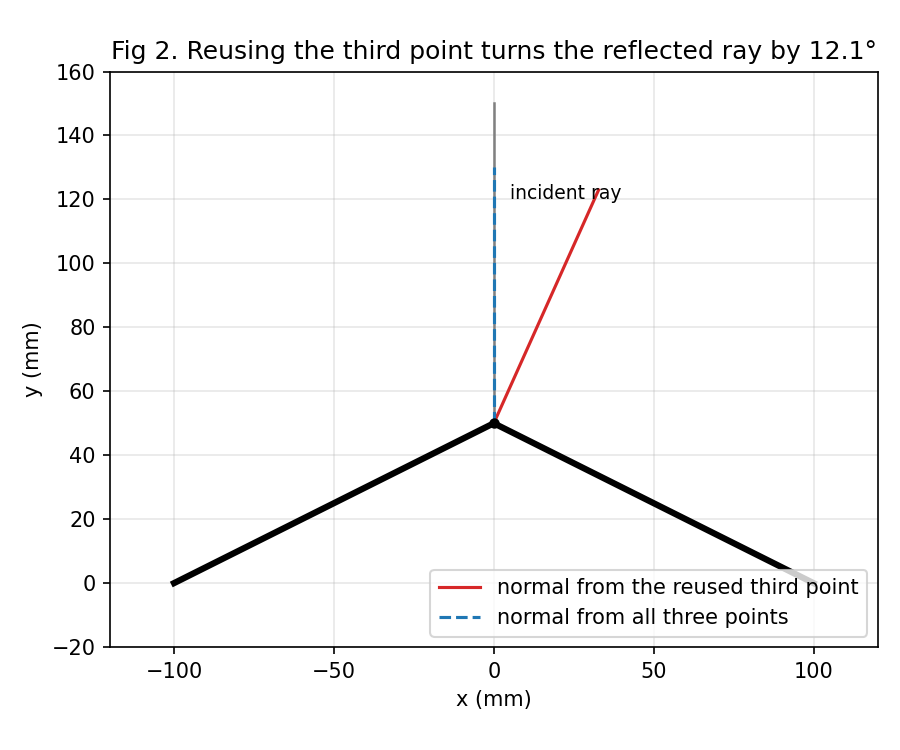
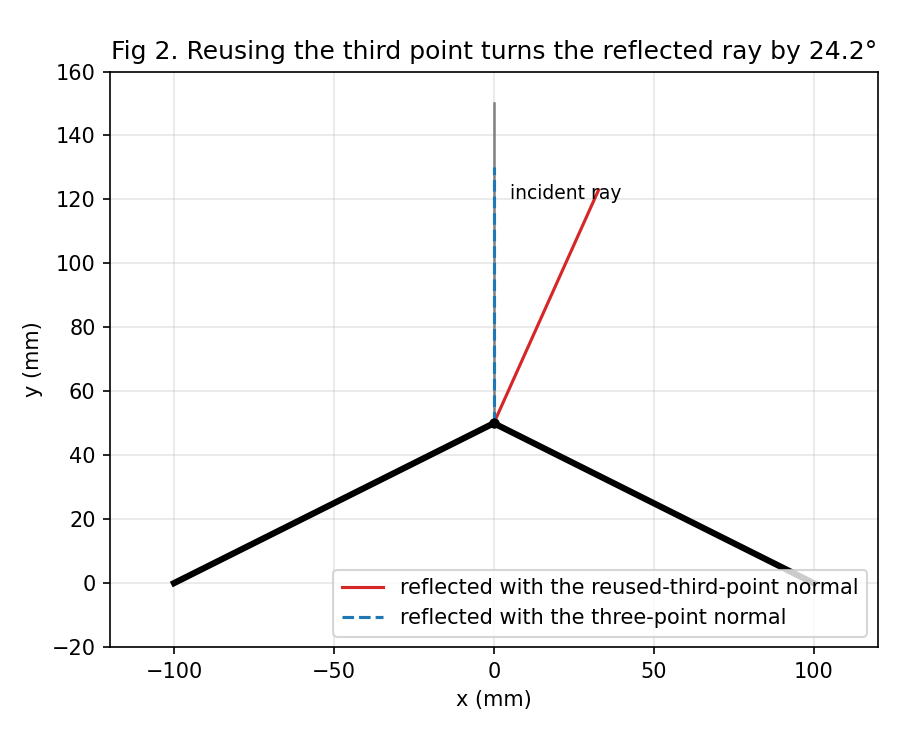
fix(post): raytracing-reflection-family — 그림2 반사 방향 차이 24.2°, 범례·꼭짓점 오차 서술·법선 방향 정정
1. 반사 방향 차이 12.1° → 24.2°(치명): 12.095°는 두 법선 사이 각이었다. 법선이 δ 돌면 반사광은
   2δ 돈다(Hecht 5판 §5.4). 반사광 사이 각 24.190°, 하우스홀더 곱도 24.19° 회전. 그림2 제목을
   반사광 사이 각으로 바꿨다.
2. 그림2 범례: 그려진 선은 법선이 아니라 반사광이다. "…법선으로 반사"로.
3. "비대칭할수록 오차가 커진다": dup_point의 원 중심은 원점을 지나는 직선에 묶여 순서가 좌표
   배치에 달려 있다. 꼭짓점을 y로 500 mm 옮기면 17.5°→13.6°→9.1°로 뒤집힌다. 본문과
   verify_vertex_normal.py docstring을 고쳤다(스크립트 출력은 그대로).
4. 꼭짓점 법선 방향: 코드는 꼭짓점에서 중심 쪽이다. "반지름 방향"으로 고쳤다.

바뀐 그림: fig2-vertex-normal-typo.png 한·영.

Changed region(s): [[0.4356, 0.7667, 0.9644, 0.8587], [0.9022, 0.0307, 0.9644, 0.092], [0.3733, 0.7667, 0.4044, 0.7973]]

diff --git a/_code/raytracing-reflection-family/generate_figures.py b/_code/raytracing-reflection-family/generate_figures.py
@@ -45,10 +45,10 @@ LABELS = {
         "reflected": "반사", "transmitted": "투과",
         "fig1": "그림1. 네 반사 부품의 광선 경로 -- 반사 공식은 하나, 법선 찾는 법만 다르다",
         "incident": "입사광",
-        "n_dup": "세 번째 점을 재사용한 법선",
-        "n_uniq": "세 점을 모두 쓴 법선",
+        "n_dup": "세 번째 점을 재사용한 법선으로 반사",
+        "n_uniq": "세 점을 모두 쓴 법선으로 반사",
         "fig2": "그림2. 세 번째 점을 재사용하면 반사 방향이 {:.1f}° 달라진다",
-        "p_vertex": "대칭 꼭짓점: n_dup={}, n_uniq={}, 차이={:.3f}deg",
+        "p_vertex": "대칭 꼭짓점: n_dup={}, n_uniq={}, 법선 차이={:.3f}deg, 반사광 차이={:.3f}deg",
     },
     "en": {
         "dir": os.path.join(BASE_DIR, "en"),
@@ -57,10 +57,10 @@ LABELS = {
         "reflected": "reflected", "transmitted": "transmitted",
         "fig1": "Fig 1. Ray paths for the four reflective components -- one formula, four ways to find the normal",
         "incident": "incident ray",
-        "n_dup": "normal from the reused third point",
-        "n_uniq": "normal from all three points",
+        "n_dup": "reflected with the reused-third-point normal",
+        "n_uniq": "reflected with the three-point normal",
         "fig2": "Fig 2. Reusing the third point turns the reflected ray by {:.1f}°",
-        "p_vertex": "symmetric vertex: n_dup={}, n_uniq={}, diff={:.3f}deg",
+        "p_vertex": "symmetric vertex: n_dup={}, n_uniq={}, normal diff={:.3f}deg, reflected diff={:.3f}deg",
     },
 }
 
@@ -102,6 +102,8 @@ n_uniq = _vertex_normal(vx0, vy0, vx1, vy1_, vx2, vy2, vx1, vy1_, dup_point=Fals
 vertex_ang = np.rad2deg(np.arccos(np.clip(np.dot(n_dup, n_uniq), -1, 1)))
 v_dup = reflect_vector([0.0, -1.0], n_dup)
 v_uniq = reflect_vector([0.0, -1.0], n_uniq)
+# 입사광을 고정하면 법선이 δ 돌 때 반사광은 2δ 돈다. 그림2 제목에는 반사광 사이 각을 쓴다.
+refl_ang = np.rad2deg(np.arccos(np.clip(np.dot(v_dup, v_uniq), -1, 1)))
 
 
 # ---------------------------------------------------------------------------
@@ -155,7 +157,7 @@ def render(L):
     plt.close(fig)
 
     # 그림2: 다각형 꼭짓점 법선 -- 점을 재사용한 경우 vs 세 점을 모두 쓴 경우
-    print(L["p_vertex"].format(np.round(n_dup, 3), np.round(n_uniq, 3), vertex_ang))
+    print(L["p_vertex"].format(np.round(n_dup, 3), np.round(n_uniq, 3), vertex_ang, refl_ang))
 
     fig, ax = plt.subplots(figsize=(6, 5))
     poly = np.array([[vx0, vy0], [vx1, vy1_], [vx2, vy2]])
@@ -174,7 +176,7 @@ def render(L):
     ax.set_xlabel(L["xlabel"], **F)
     ax.set_ylabel(L["ylabel"], **F)
     ax.legend(prop=LF, fontsize=9, loc="lower right")
-    ax.set_title(L["fig2"].format(vertex_ang), **F)
+    ax.set_title(L["fig2"].format(refl_ang), **F)
     ax.grid(True, alpha=0.3)
     fig.tight_layout()
     fig.savefig(os.path.join(out_dir, "fig2-vertex-normal-typo.png"), dpi=150)

diff --git a/_code/raytracing-reflection-family/verify_vertex_normal.py b/_code/raytracing-reflection-family/verify_vertex_normal.py
@@ -6,7 +6,11 @@
 두 변의 길이·기울기 차이를 키웠다.
 
 dup_point=True 로 얻은 원이 세 번째 점을 얼마나 빗나가는지도 함께 출력한다.
-법선이 틀어지는 정도는 결국 이 빗나감의 크기를 따라간다.
+아래 세 경우에서는 비대칭이 심할수록 법선 차이와 빗나감이 함께 커지지만, 이 순서는
+꼭짓점의 모양이 정하는 것이 아니다. dup_point=True 이면 둘째·셋째 방정식의 우변이
+같아져 원의 중심 c 가 c·(p2 - p1) = 0, 곧 좌표 원점을 지나는 직선 위에 묶인다.
+그래서 같은 꼭짓점이라도 좌표계 어디에 두느냐에 따라 오차가 달라진다
+(세 꼭짓점을 y 방향으로 500mm 옮기면 법선 차이가 17.5° → 13.6° → 9.1°로 줄어든다).
 
 실행: python verify_vertex_normal.py  (한국어·영문 결과를 차례로 출력한다)
 """

diff --git a/_posts/2026-09-09-raytracing-reflection-family.md b/_posts/2026-09-09-raytracing-reflection-family.md
@@ -70,7 +70,7 @@ _그림1. 네 반사 부품의 광선 경로 — 반사 공식은 하나, 법선
 
 ## 3. 다각형 꼭짓점의 국소 곡률 근사와 그 오차
 
-`ArbitraryMirror`는 매끈한 곡면 거울도 다각형으로 잘게 쪼개서 표현한다. 문제는 꼭짓점이다. 변에 수직인 법선은 변마다 값이 다르므로, 꼭짓점에서는 어느 쪽 변의 법선을 써야 할지가 애매하다. 그래서 이 함수는 꼭짓점에서 인접한 3개 점(이전 점, 꼭짓점, 다음 점)을 지나는 원을 하나 잡고, 그 원의 중심에서 꼭짓점으로 향하는 방향을 법선으로 쓴다. 점 3개는 원 하나를 유일하게 정하므로, 추가 파라미터 없이 국소 곡률을 근사할 수 있다.
+`ArbitraryMirror`는 매끈한 곡면 거울도 다각형으로 잘게 쪼개서 표현한다. 문제는 꼭짓점이다. 변에 수직인 법선은 변마다 값이 다르므로, 꼭짓점에서는 어느 쪽 변의 법선을 써야 할지가 애매하다. 그래서 이 함수는 꼭짓점에서 인접한 3개 점(이전 점, 꼭짓점, 다음 점)을 지나는 원을 하나 잡고, 그 원의 중심과 꼭짓점을 잇는 반지름 방향(코드는 꼭짓점에서 중심 쪽)을 법선으로 쓴다. 점 3개는 원 하나를 유일하게 정하므로, 추가 파라미터 없이 국소 곡률을 근사할 수 있다.
 
 ```python
 def _vertex_normal(x0, y0, x1, y1, x2, y2, xc, yc, dup_point):
@@ -96,10 +96,10 @@ def _vertex_normal(x0, y0, x1, y1, x2, y2, xc, yc, dup_point):
 더 비대칭한 꼭짓점: n_dup=[0.161, -0.987]  n_uniq=[0.685, -0.728]  차이=33.983deg  세 번째 점 빗나감=143.4mm
 ```
 
-결과는 예상과 반대다. 대칭 꼭짓점이 가장 크게 어긋날 것 같지만 오히려 가장 작게 어긋나고, 비대칭이 심해질수록 차이가 12° → 21° → 34°로 커진다. 함께 찍은 빗나감이 그 이유를 그대로 보여준다. 잘못된 원이 세 번째 점을 빗나간 거리가 35mm → 76mm → 143mm로 커지고, 법선이 틀어지는 각도가 그 크기를 따라간다. 대칭 꼭짓점에 수직으로 쏜 광선은 왔던 길을 그대로 되짚어 나가야 하는데(그림2), 세 번째 점을 재사용한 법선으로 계산하면 12° 벗어난 방향으로 반사된다. 비대칭 꼭짓점에서는 이 왜곡이 더 크다는 뜻이다.
+이 좌표에서는 비대칭이 심해질수록 차이가 12° → 21° → 34°로 커지고, 잘못된 원이 세 번째 점을 빗나간 거리도 35mm → 76mm → 143mm로 함께 커진다. 그러나 이 순서는 꼭짓점의 모양이 정하는 것이 아니다. 둘째와 셋째 방정식의 우변이 같아지므로 두 식을 빼면 원의 중심 $\vec c$가 $\vec c\cdot(\vec p_2-\vec p_1)=0$을 만족해야 하고, 중심이 좌표 원점을 지나는 직선 위에 묶인다. 같은 거울이라도 좌표계 어디에 두느냐에 따라 오차가 달라진다는 뜻이다. 실제로 세 꼭짓점을 $y$ 방향으로 500mm 옮기면 차이가 17.5° → 13.6° → 9.1°로 오히려 줄어든다. 대칭 꼭짓점에 수직으로 쏜 광선은 왔던 길을 그대로 되짚어 나가야 하는데(그림2), 세 번째 점을 재사용한 법선으로 계산하면 법선 오차(12°)의 두 배인 24° 벗어난 방향으로 반사된다.
 
 <img src="/assets/img/posts/raytracing-reflection-family/fig2-vertex-normal-typo.png" alt="꼭짓점 법선 계산의 영향" width="600">
-_그림2. 세 번째 점을 재사용하면(빨간 실선) 반사 방향이 12.1° 달라진다 — 세 점을 모두 쓰면(파란 점선) 입사 경로를 그대로 되짚는다_
+_그림2. 세 번째 점을 재사용하면(빨간 실선) 법선이 12.1° 틀어져 반사 방향은 그 두 배인 24.2° 달라진다 — 세 점을 모두 쓰면(파란 점선) 입사 경로를 그대로 되짚는다_
 
 ## 4. 한계와 남은 부분
 

diff --git a/_posts/2026-09-09-raytracing-reflection-family-en.md b/_posts/2026-09-09-raytracing-reflection-family-en.md
@@ -73,7 +73,7 @@ _Fig 1. Ray paths for the four reflective components — one reflection formula,
 
 ## 3. Approximating local curvature at a polygon vertex, and its error
 
-`ArbitraryMirror` represents even a smooth curved mirror by subdividing it into a polygon. The awkward case is the vertex. The perpendicular normal differs from edge to edge, so at a vertex it is unclear which edge's normal applies. The routine therefore fits a circle through the three adjacent points — previous point, vertex, next point — and takes the direction from that circle's centre to the vertex as the normal. Three points determine a circle uniquely, so the local curvature is approximated without any extra parameter.
+`ArbitraryMirror` represents even a smooth curved mirror by subdividing it into a polygon. The awkward case is the vertex. The perpendicular normal differs from edge to edge, so at a vertex it is unclear which edge's normal applies. The routine therefore fits a circle through the three adjacent points — previous point, vertex, next point — and takes the radial direction joining the vertex and that circle's centre (the code points it from the vertex towards the centre) as the normal. Three points determine a circle uniquely, so the local curvature is approximated without any extra parameter.
 
 ```python
 def _vertex_normal(x0, y0, x1, y1, x2, y2, xc, yc, dup_point):
@@ -99,10 +99,10 @@ asymmetric vertex: n_dup=[-0.057, -0.998]  n_uniq=[0.310, -0.951]  diff=21.319de
 more asymmetric  : n_dup=[0.161, -0.987]  n_uniq=[0.685, -0.728]  diff=33.983deg  third point missed by 143.4mm
 ```
 
-The result runs opposite to expectation. The symmetric vertex looks like the case that should go furthest astray, yet it deviates least, and the discrepancy grows with asymmetry: 12° to 21° to 34°. The miss distance printed alongside explains why directly. The distance by which the corrupted circle misses the third point grows from 35 mm to 76 mm to 143 mm, and the angular error of the normal tracks that growth. A ray sent perpendicularly onto a symmetric vertex ought to retrace its own path (Fig. 2); computed with the normal from the reused third point, it leaves 12° off course instead — and at an asymmetric vertex the distortion is larger still.
+In these coordinates the discrepancy grows with asymmetry, 12° to 21° to 34°, and the distance by which the corrupted circle misses the third point grows alongside it, 35 mm to 76 mm to 143 mm. The ordering, however, is not set by the shape of the vertex. With the right-hand sides of the second and third equations now equal, subtracting them forces the centre $\vec c$ to satisfy $\vec c\cdot(\vec p_2-\vec p_1)=0$, which pins it to a line through the coordinate origin, so the same mirror gives a different error depending on where it sits in the coordinate system. Shifting the three vertices by 500 mm in $y$ reverses the trend: 17.5° to 13.6° to 9.1°. A ray sent perpendicularly onto a symmetric vertex ought to retrace its own path (Fig. 2); computed with the normal from the reused third point, it leaves 24° off course instead, twice the 12° error in the normal.
 
 <img src="/assets/img/posts/raytracing-reflection-family/en/fig2-vertex-normal-typo.png" alt="Effect of the vertex normal calculation" width="600">
-_Fig 2. Reusing the third point (red solid) turns the reflected ray by 12.1°; using all three points (blue dashed) retraces the incident path exactly_
+_Fig 2. Reusing the third point (red solid) tilts the normal by 12.1°, which turns the reflected ray by twice that, 24.2°; using all three points (blue dashed) retraces the incident path exactly_
 
 ## 4. Limitations and what remains
 
